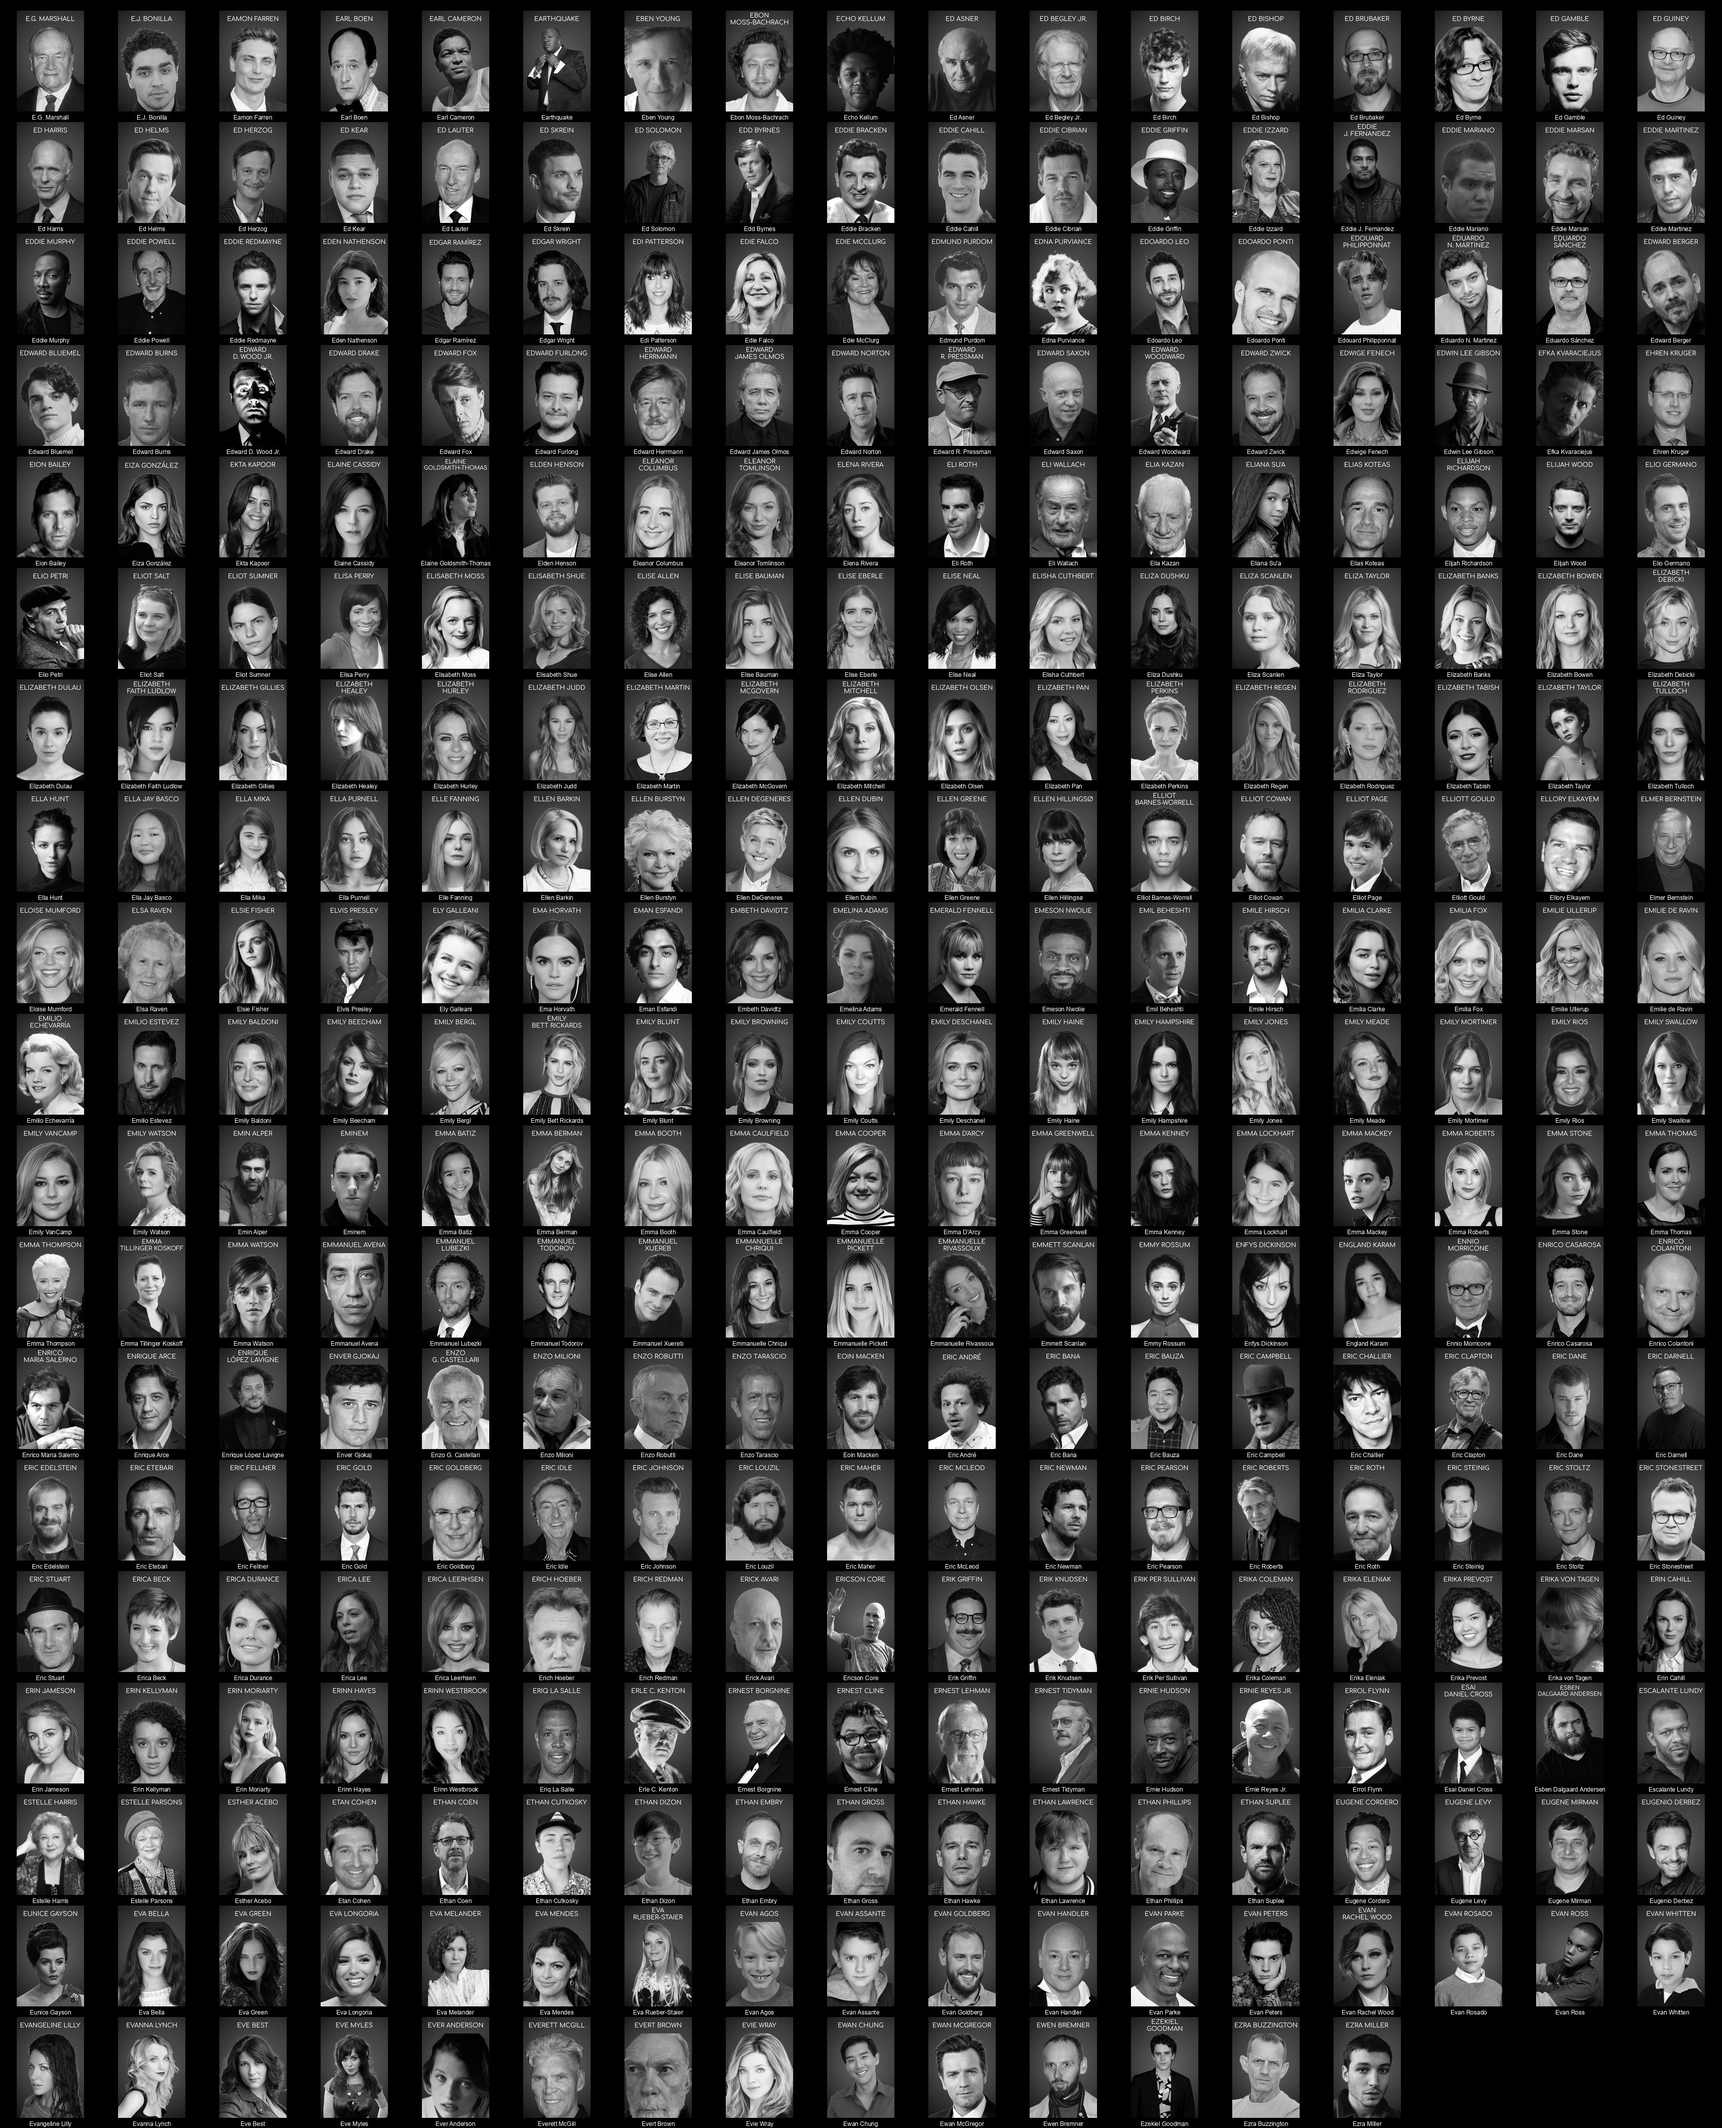
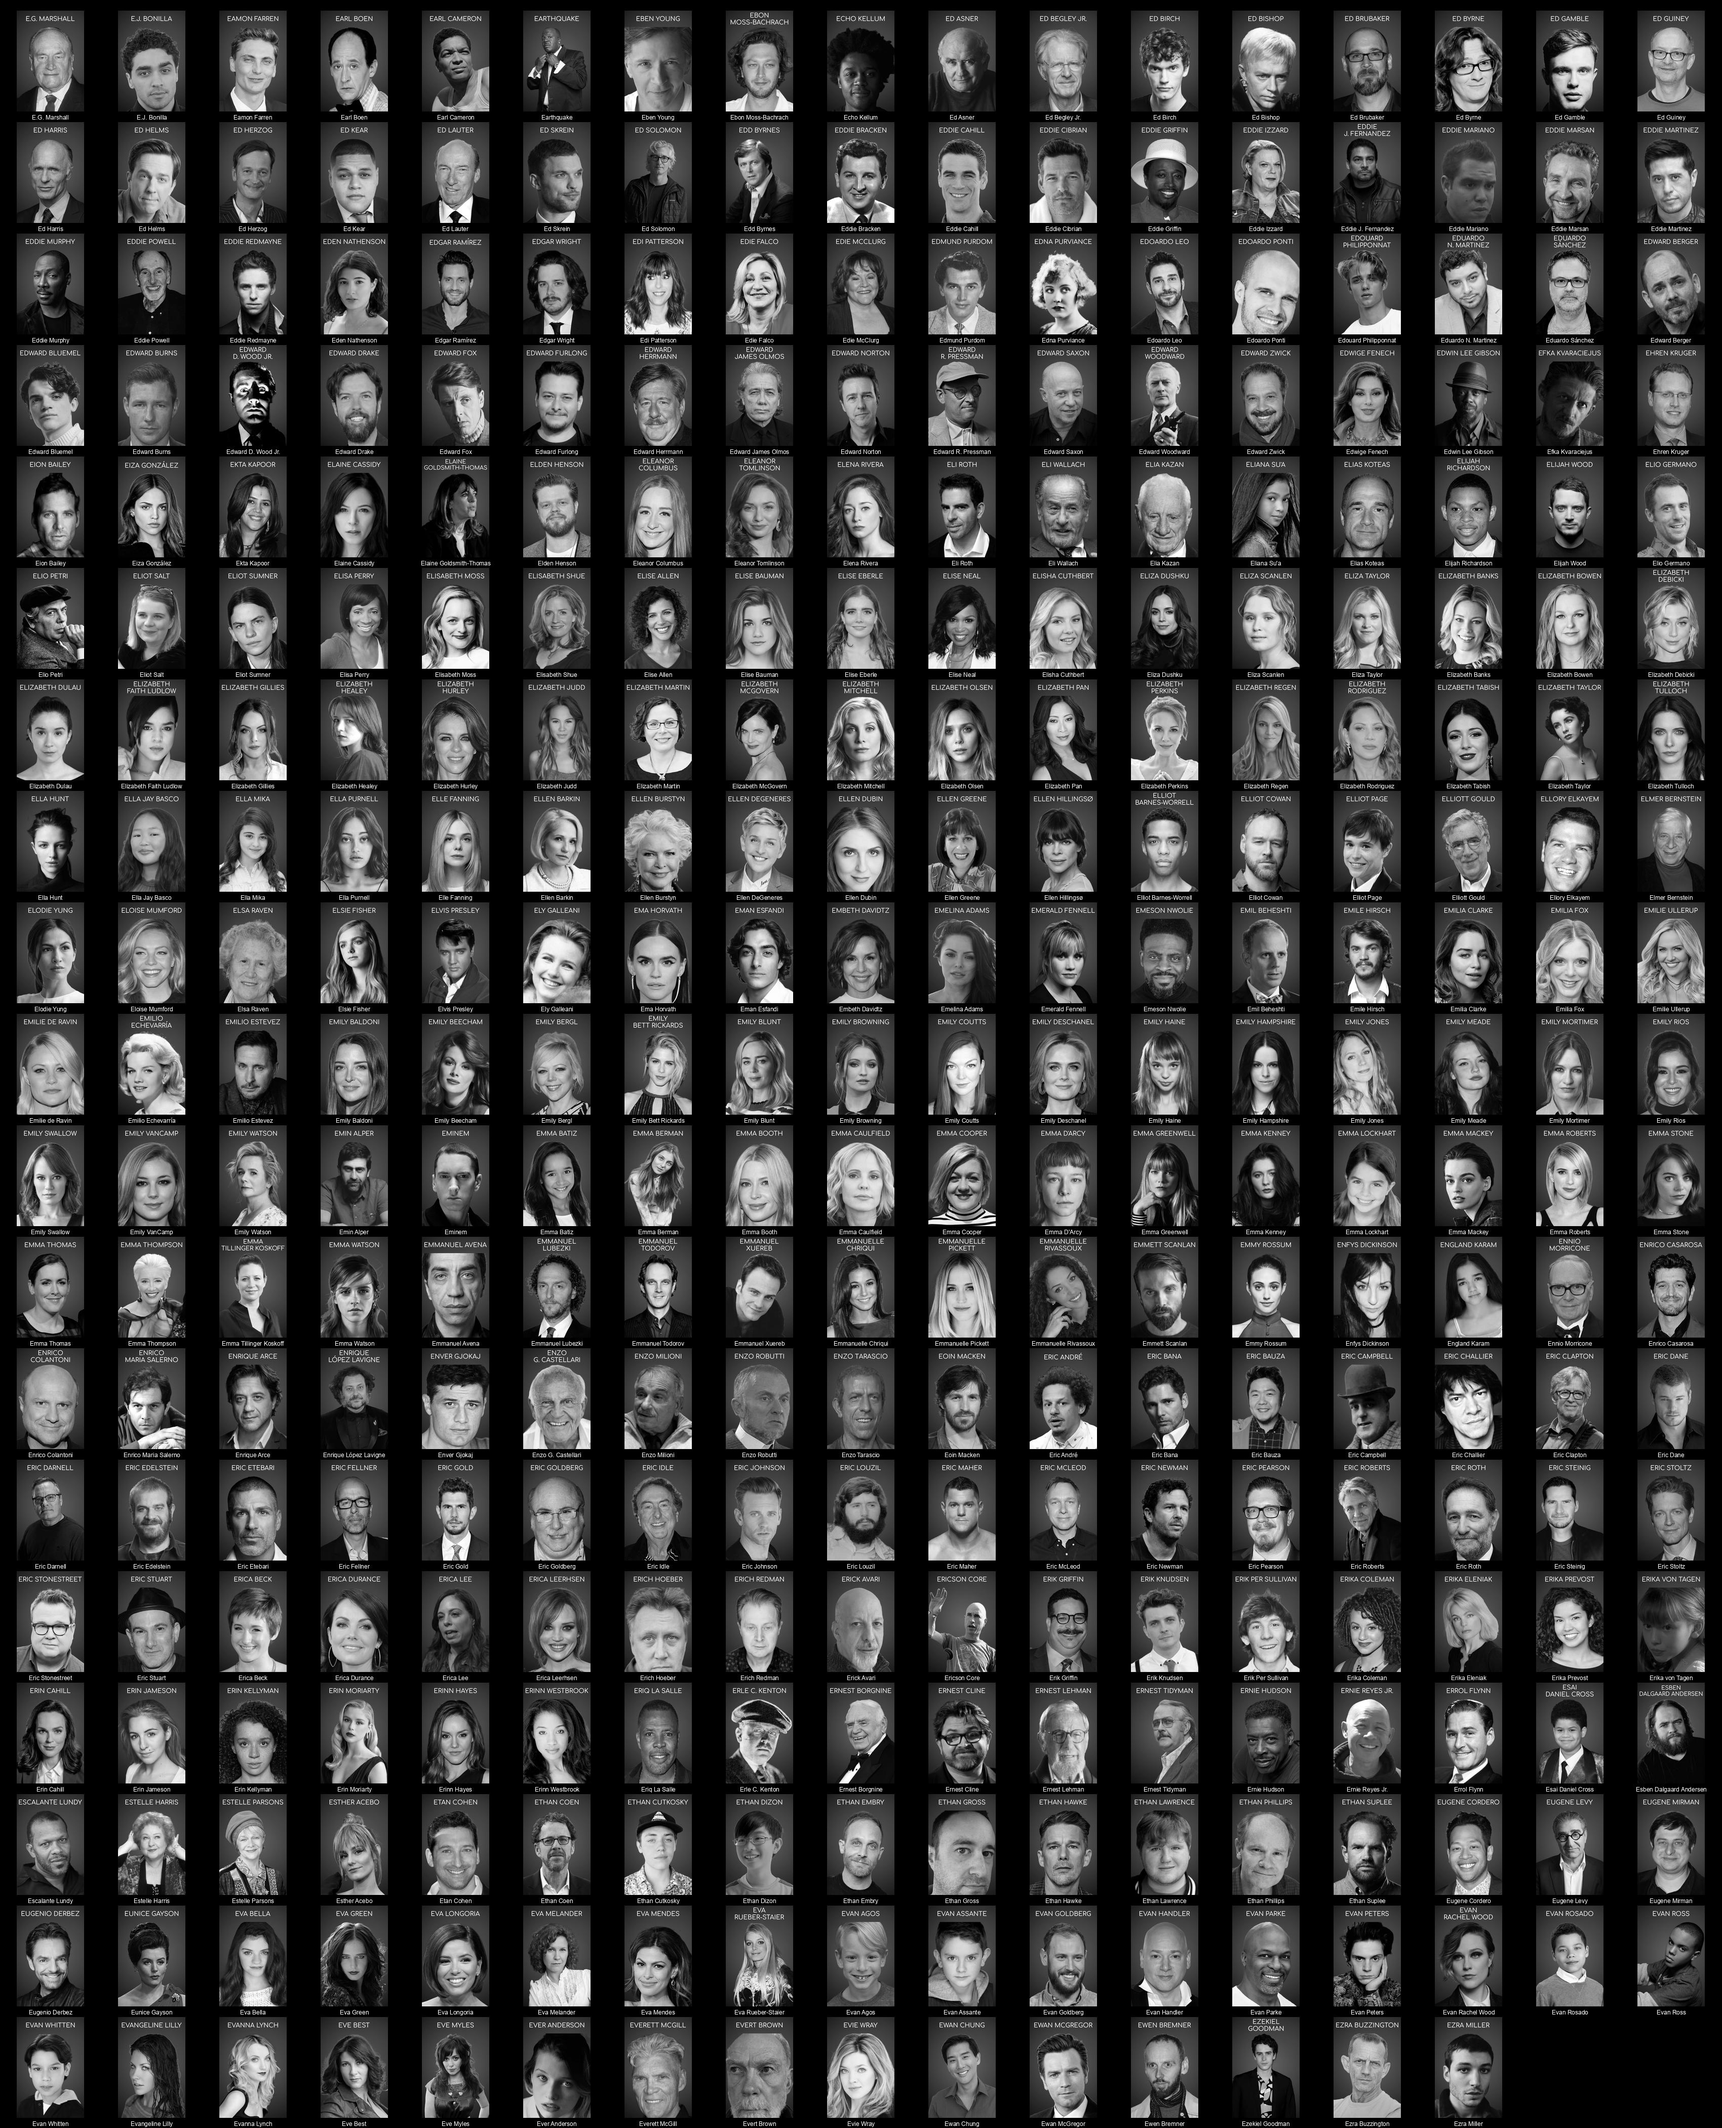
Readme Update

Changed region(s): [[0.0, 0.4055, 0.9976, 1.0]]

diff --git a/README.md b/README.md
@@ -1,4 +1,4 @@
-# Plex Meta Manager People - Black & White (bw) (8699 Images)
+# Plex Meta Manager People - Black & White (bw) (8702 Images)
 
 <details><summary><a href="'">' (1 Images)</a></summary>
 
@@ -2341,7 +2341,7 @@
 * [Débora Nascimento](https://raw.githubusercontent.com/meisnate12/Plex-Meta-Manager-People-bw/master/D/Images/D%C3%A9bora%20Nascimento.jpg)
 * [Díana Bermudez](https://raw.githubusercontent.com/meisnate12/Plex-Meta-Manager-People-bw/master/D/Images/D%C3%ADana%20Bermudez.jpg)
 </details>
-<details><summary><a href="E">E (320 Images)</a></summary>
+<details><summary><a href="E">E (321 Images)</a></summary>
 
 * [E.G. Marshall](https://raw.githubusercontent.com/meisnate12/Plex-Meta-Manager-People-bw/master/E/Images/E.G.%20Marshall.jpg)
 * [E.J. Bonilla](https://raw.githubusercontent.com/meisnate12/Plex-Meta-Manager-People-bw/master/E/Images/E.J.%20Bonilla.jpg)
@@ -2479,6 +2479,7 @@
 * [Elliott Gould](https://raw.githubusercontent.com/meisnate12/Plex-Meta-Manager-People-bw/master/E/Images/Elliott%20Gould.jpg)
 * [Ellory Elkayem](https://raw.githubusercontent.com/meisnate12/Plex-Meta-Manager-People-bw/master/E/Images/Ellory%20Elkayem.jpg)
 * [Elmer Bernstein](https://raw.githubusercontent.com/meisnate12/Plex-Meta-Manager-People-bw/master/E/Images/Elmer%20Bernstein.jpg)
+* [Elodie Yung](https://raw.githubusercontent.com/meisnate12/Plex-Meta-Manager-People-bw/master/E/Images/Elodie%20Yung.jpg)
 * [Eloise Mumford](https://raw.githubusercontent.com/meisnate12/Plex-Meta-Manager-People-bw/master/E/Images/Eloise%20Mumford.jpg)
 * [Elsa Raven](https://raw.githubusercontent.com/meisnate12/Plex-Meta-Manager-People-bw/master/E/Images/Elsa%20Raven.jpg)
 * [Elsie Fisher](https://raw.githubusercontent.com/meisnate12/Plex-Meta-Manager-People-bw/master/E/Images/Elsie%20Fisher.jpg)
@@ -4522,7 +4523,7 @@
 * [Jürgen Prochnow](https://raw.githubusercontent.com/meisnate12/Plex-Meta-Manager-People-bw/master/J/Images/J%C3%BCrgen%20Prochnow.jpg)
 * [Jūzō Itami](https://raw.githubusercontent.com/meisnate12/Plex-Meta-Manager-People-bw/master/J/Images/J%C5%ABz%C5%8D%20Itami.jpg)
 </details>
-<details><summary><a href="K">K (389 Images)</a></summary>
+<details><summary><a href="K">K (390 Images)</a></summary>
 
 * [K Raghavendra Rao](https://raw.githubusercontent.com/meisnate12/Plex-Meta-Manager-People-bw/master/K/Images/K%20Raghavendra%20Rao.jpg)
 * [K.J. Apa](https://raw.githubusercontent.com/meisnate12/Plex-Meta-Manager-People-bw/master/K/Images/K.J.%20Apa.jpg)
@@ -4649,6 +4650,7 @@
 * [Katt Williams](https://raw.githubusercontent.com/meisnate12/Plex-Meta-Manager-People-bw/master/K/Images/Katt%20Williams.jpg)
 * [Katy Breier](https://raw.githubusercontent.com/meisnate12/Plex-Meta-Manager-People-bw/master/K/Images/Katy%20Breier.jpg)
 * [Katy O'Brian](https://raw.githubusercontent.com/meisnate12/Plex-Meta-Manager-People-bw/master/K/Images/Katy%20O%27Brian.jpg)
+* [Katy Wix](https://raw.githubusercontent.com/meisnate12/Plex-Meta-Manager-People-bw/master/K/Images/Katy%20Wix.jpg)
 * [Kay Kay Menon](https://raw.githubusercontent.com/meisnate12/Plex-Meta-Manager-People-bw/master/K/Images/Kay%20Kay%20Menon.jpg)
 * [Kaya Scodelario](https://raw.githubusercontent.com/meisnate12/Plex-Meta-Manager-People-bw/master/K/Images/Kaya%20Scodelario.jpg)
 * [Kayla Adams](https://raw.githubusercontent.com/meisnate12/Plex-Meta-Manager-People-bw/master/K/Images/Kayla%20Adams.jpg)
@@ -4914,7 +4916,7 @@
 * [Kym Miller](https://raw.githubusercontent.com/meisnate12/Plex-Meta-Manager-People-bw/master/K/Images/Kym%20Miller.jpg)
 * [Kyra Sedgwick](https://raw.githubusercontent.com/meisnate12/Plex-Meta-Manager-People-bw/master/K/Images/Kyra%20Sedgwick.jpg)
 </details>
-<details><summary><a href="L">L (381 Images)</a></summary>
+<details><summary><a href="L">L (382 Images)</a></summary>
 
 * [L. Q. Jones](https://raw.githubusercontent.com/meisnate12/Plex-Meta-Manager-People-bw/master/L/Images/L.%20Q.%20Jones.jpg)
 * [LL Cool J](https://raw.githubusercontent.com/meisnate12/Plex-Meta-Manager-People-bw/master/L/Images/LL%20Cool%20J.jpg)
@@ -5278,6 +5280,7 @@
 * [Luke Kirby](https://raw.githubusercontent.com/meisnate12/Plex-Meta-Manager-People-bw/master/L/Images/Luke%20Kirby.jpg)
 * [Luke Macfarlane](https://raw.githubusercontent.com/meisnate12/Plex-Meta-Manager-People-bw/master/L/Images/Luke%20Macfarlane.jpg)
 * [Luke Mitchell](https://raw.githubusercontent.com/meisnate12/Plex-Meta-Manager-People-bw/master/L/Images/Luke%20Mitchell.jpg)
+* [Luke Pasqualino](https://raw.githubusercontent.com/meisnate12/Plex-Meta-Manager-People-bw/master/L/Images/Luke%20Pasqualino.jpg)
 * [Luke Perry](https://raw.githubusercontent.com/meisnate12/Plex-Meta-Manager-People-bw/master/L/Images/Luke%20Perry.jpg)
 * [Luke Roberts](https://raw.githubusercontent.com/meisnate12/Plex-Meta-Manager-People-bw/master/L/Images/Luke%20Roberts.jpg)
 * [Luke Wilson](https://raw.githubusercontent.com/meisnate12/Plex-Meta-Manager-People-bw/master/L/Images/Luke%20Wilson.jpg)

diff --git a/K/README.md b/K/README.md
@@ -1,4 +1,4 @@
-# Plex Meta Manager People - Black & White (bw) - K (389 Images)
+# Plex Meta Manager People - Black & White (bw) - K (390 Images)
 ![Grid](grid.jpg)
 
 * [K Raghavendra Rao](https://raw.githubusercontent.com/meisnate12/Plex-Meta-Manager-People-bw/master/K/Images/K%20Raghavendra%20Rao.jpg)
@@ -126,6 +126,7 @@
 * [Katt Williams](https://raw.githubusercontent.com/meisnate12/Plex-Meta-Manager-People-bw/master/K/Images/Katt%20Williams.jpg)
 * [Katy Breier](https://raw.githubusercontent.com/meisnate12/Plex-Meta-Manager-People-bw/master/K/Images/Katy%20Breier.jpg)
 * [Katy O'Brian](https://raw.githubusercontent.com/meisnate12/Plex-Meta-Manager-People-bw/master/K/Images/Katy%20O%27Brian.jpg)
+* [Katy Wix](https://raw.githubusercontent.com/meisnate12/Plex-Meta-Manager-People-bw/master/K/Images/Katy%20Wix.jpg)
 * [Kay Kay Menon](https://raw.githubusercontent.com/meisnate12/Plex-Meta-Manager-People-bw/master/K/Images/Kay%20Kay%20Menon.jpg)
 * [Kaya Scodelario](https://raw.githubusercontent.com/meisnate12/Plex-Meta-Manager-People-bw/master/K/Images/Kaya%20Scodelario.jpg)
 * [Kayla Adams](https://raw.githubusercontent.com/meisnate12/Plex-Meta-Manager-People-bw/master/K/Images/Kayla%20Adams.jpg)

diff --git a/E/README.md b/E/README.md
@@ -1,4 +1,4 @@
-# Plex Meta Manager People - Black & White (bw) - E (320 Images)
+# Plex Meta Manager People - Black & White (bw) - E (321 Images)
 ![Grid](grid.jpg)
 
 * [E.G. Marshall](https://raw.githubusercontent.com/meisnate12/Plex-Meta-Manager-People-bw/master/E/Images/E.G.%20Marshall.jpg)
@@ -137,6 +137,7 @@
 * [Elliott Gould](https://raw.githubusercontent.com/meisnate12/Plex-Meta-Manager-People-bw/master/E/Images/Elliott%20Gould.jpg)
 * [Ellory Elkayem](https://raw.githubusercontent.com/meisnate12/Plex-Meta-Manager-People-bw/master/E/Images/Ellory%20Elkayem.jpg)
 * [Elmer Bernstein](https://raw.githubusercontent.com/meisnate12/Plex-Meta-Manager-People-bw/master/E/Images/Elmer%20Bernstein.jpg)
+* [Elodie Yung](https://raw.githubusercontent.com/meisnate12/Plex-Meta-Manager-People-bw/master/E/Images/Elodie%20Yung.jpg)
 * [Eloise Mumford](https://raw.githubusercontent.com/meisnate12/Plex-Meta-Manager-People-bw/master/E/Images/Eloise%20Mumford.jpg)
 * [Elsa Raven](https://raw.githubusercontent.com/meisnate12/Plex-Meta-Manager-People-bw/master/E/Images/Elsa%20Raven.jpg)
 * [Elsie Fisher](https://raw.githubusercontent.com/meisnate12/Plex-Meta-Manager-People-bw/master/E/Images/Elsie%20Fisher.jpg)

diff --git a/L/README.md b/L/README.md
@@ -1,4 +1,4 @@
-# Plex Meta Manager People - Black & White (bw) - L (381 Images)
+# Plex Meta Manager People - Black & White (bw) - L (382 Images)
 ![Grid](grid.jpg)
 
 * [L. Q. Jones](https://raw.githubusercontent.com/meisnate12/Plex-Meta-Manager-People-bw/master/L/Images/L.%20Q.%20Jones.jpg)
@@ -363,6 +363,7 @@
 * [Luke Kirby](https://raw.githubusercontent.com/meisnate12/Plex-Meta-Manager-People-bw/master/L/Images/Luke%20Kirby.jpg)
 * [Luke Macfarlane](https://raw.githubusercontent.com/meisnate12/Plex-Meta-Manager-People-bw/master/L/Images/Luke%20Macfarlane.jpg)
 * [Luke Mitchell](https://raw.githubusercontent.com/meisnate12/Plex-Meta-Manager-People-bw/master/L/Images/Luke%20Mitchell.jpg)
+* [Luke Pasqualino](https://raw.githubusercontent.com/meisnate12/Plex-Meta-Manager-People-bw/master/L/Images/Luke%20Pasqualino.jpg)
 * [Luke Perry](https://raw.githubusercontent.com/meisnate12/Plex-Meta-Manager-People-bw/master/L/Images/Luke%20Perry.jpg)
 * [Luke Roberts](https://raw.githubusercontent.com/meisnate12/Plex-Meta-Manager-People-bw/master/L/Images/Luke%20Roberts.jpg)
 * [Luke Wilson](https://raw.githubusercontent.com/meisnate12/Plex-Meta-Manager-People-bw/master/L/Images/Luke%20Wilson.jpg)
